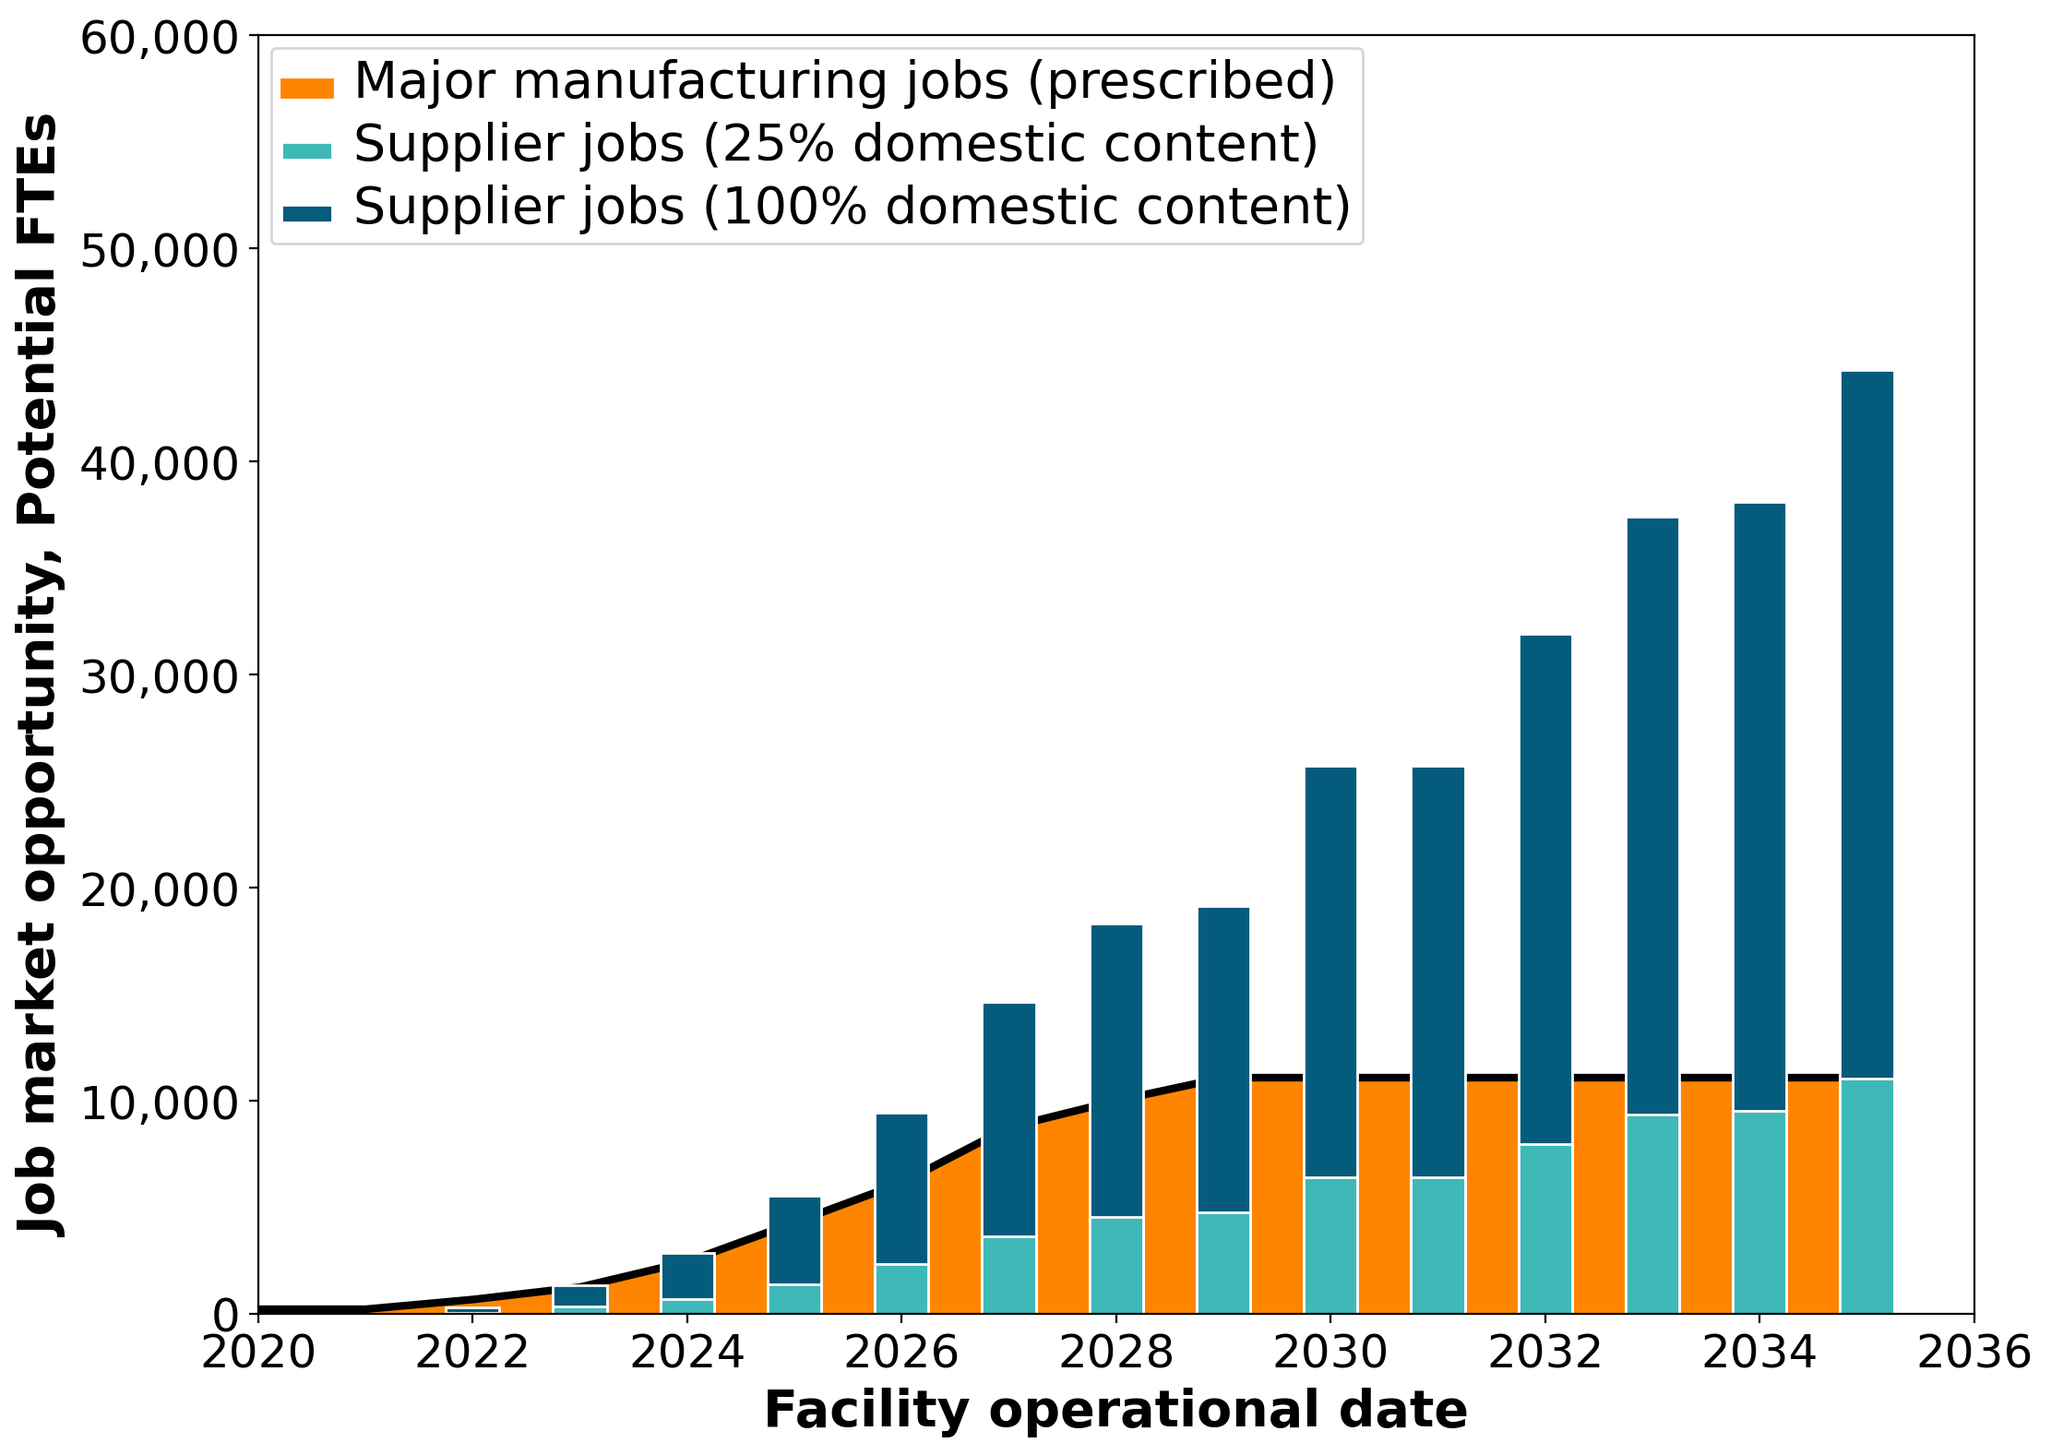
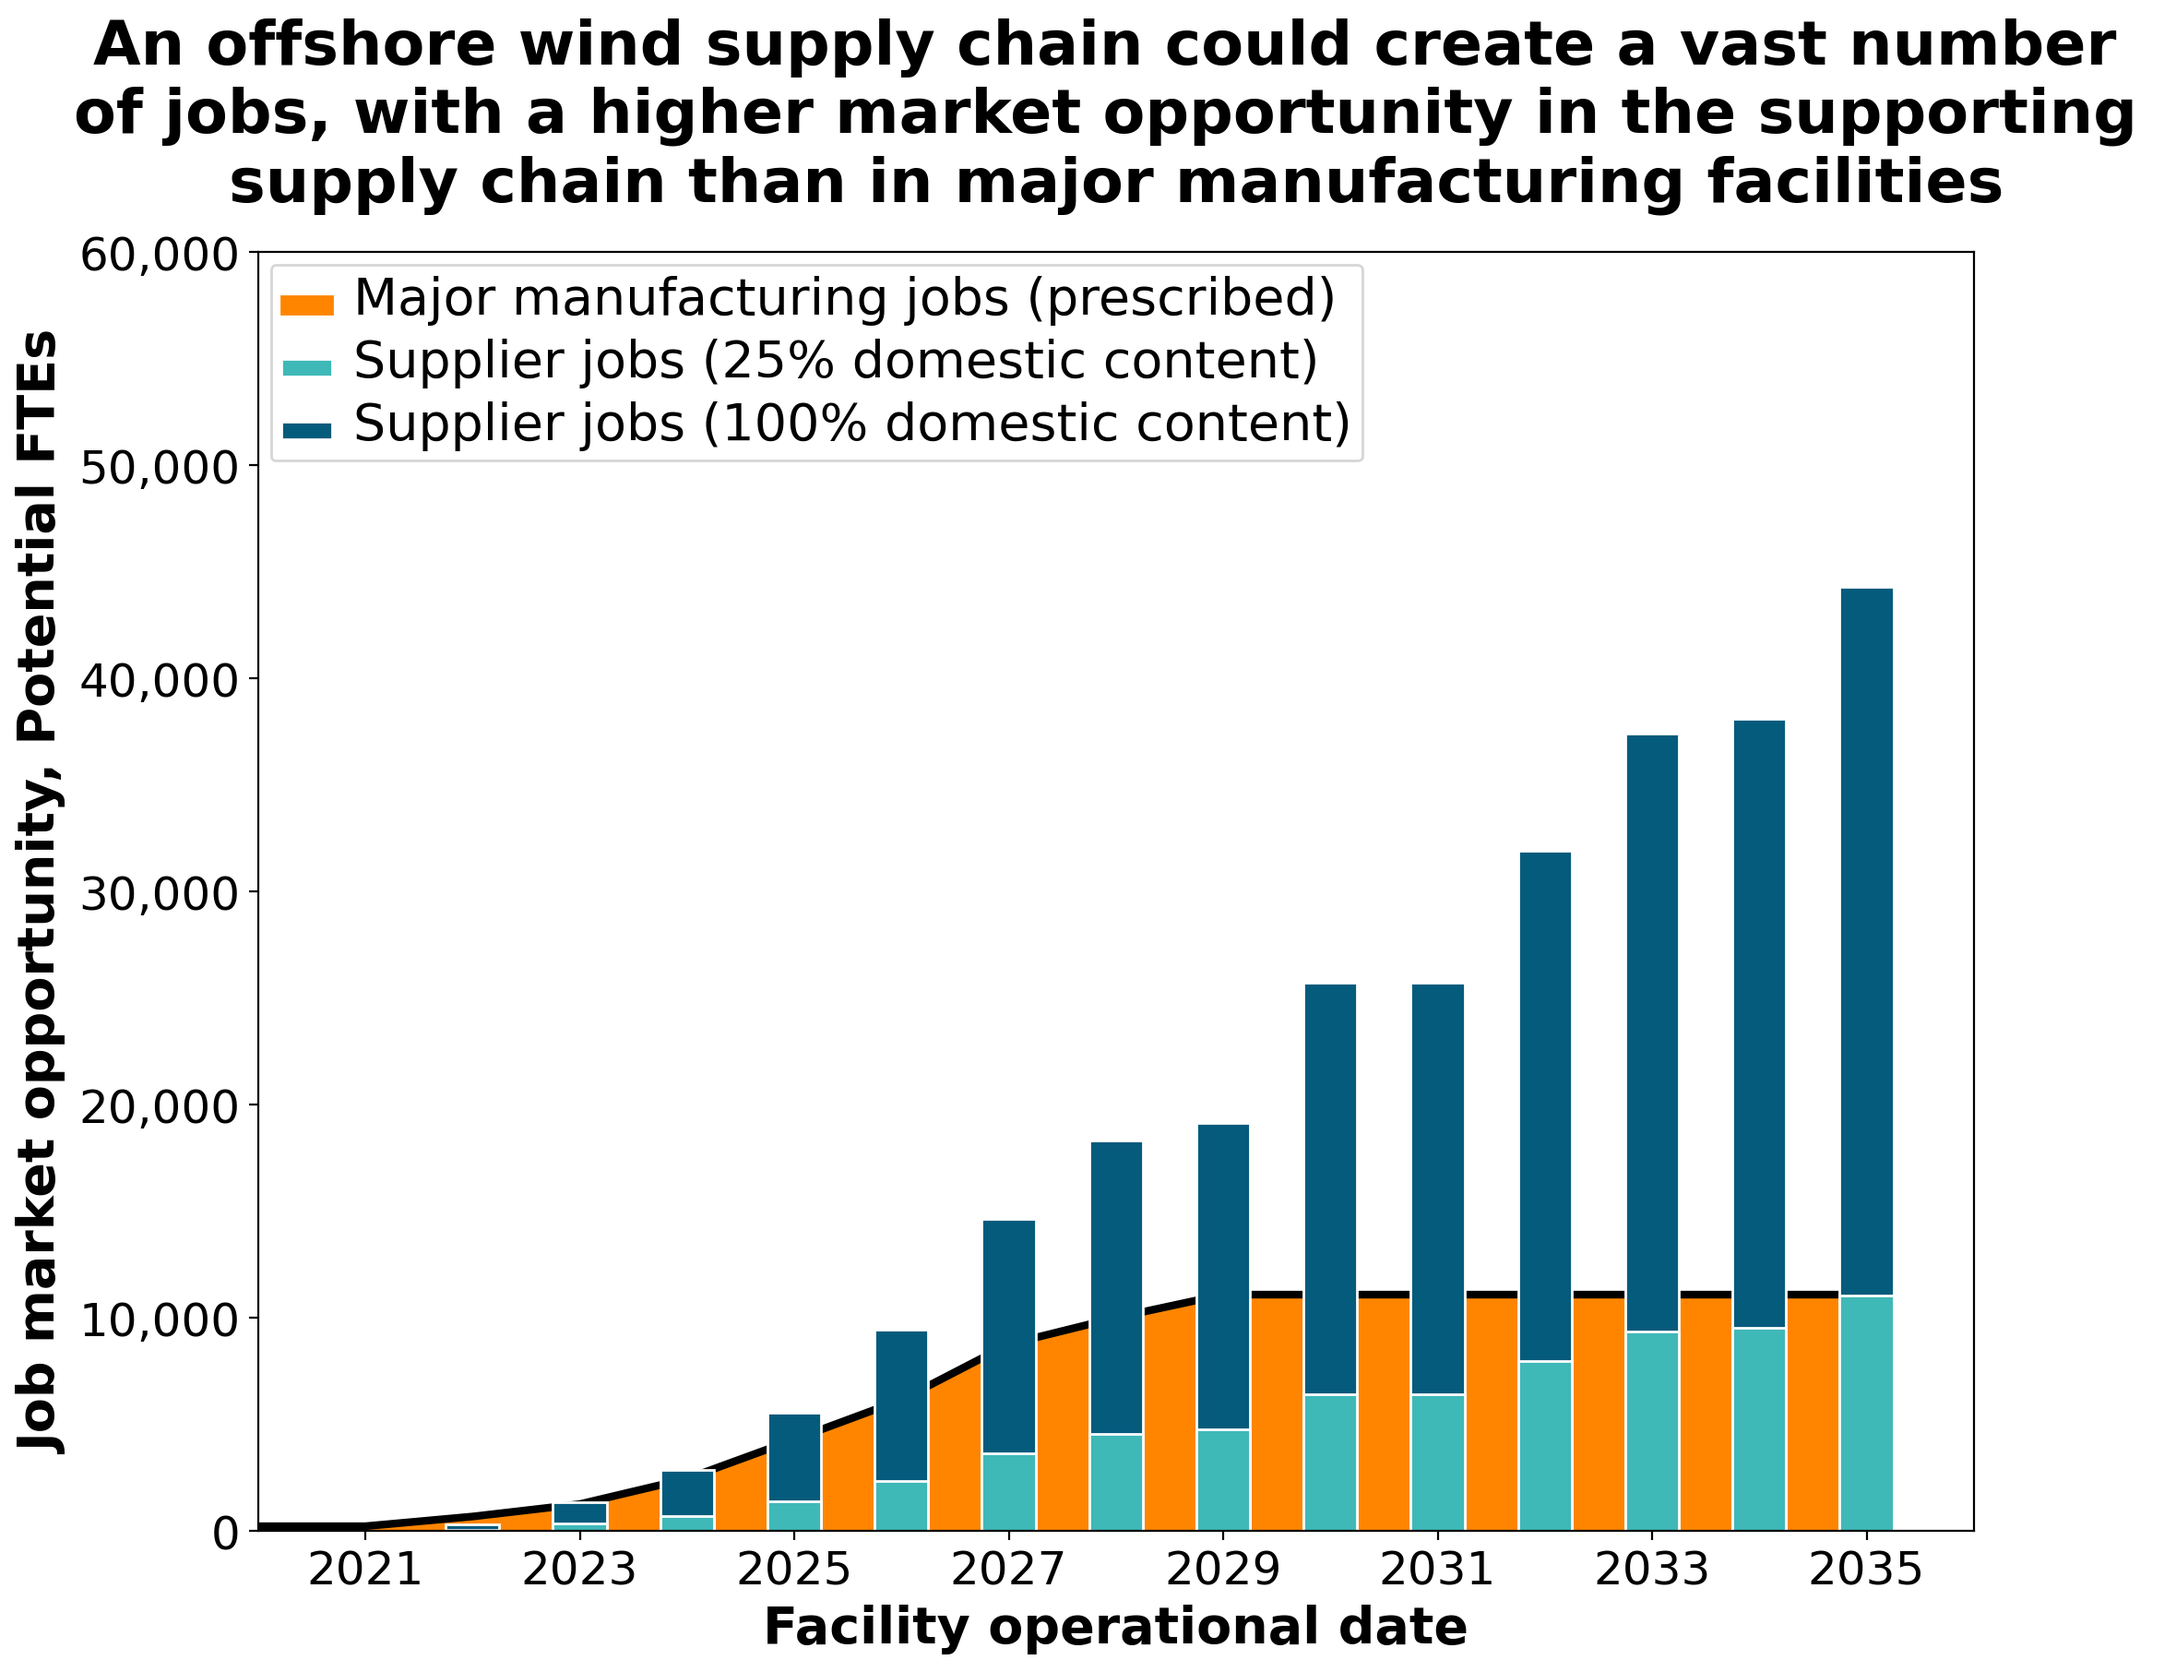
Axis formatting and added title for workforce rampup

Changed region(s): [[0.0, 0.0, 0.9933, 0.87], [0.0931, 0.2486, 0.9933, 0.9943]]

diff --git a/additional_plots.py b/additional_plots.py
@@ -72,6 +72,7 @@ if __name__ == '__main__':
                             'color2': color_list[label[1]],
                             'color3': color_list[label[2]],
                             'ylim': [0, 60000],
+                            'xticks': np.arange(2021,2035+1,2),
                             'ylabel': 'Job market opportunity, Potential FTEs',
                             'xlabel': 'Facility operational date'
                             }
@@ -79,9 +80,12 @@ if __name__ == '__main__':
                 # Different names and directories for accelerated and conservative scenarios
                 if "top" in fig:
                     fname = 'results/Accelerated/workforce_rampup'
+                    title = "An offshore wind supply chain could create a vast number \nof jobs, with a higher market opportunity in the supporting \nsupply chain than in major manufacturing facilities"
                 elif "bottom" in fig:
                     fname = 'results/Conservative/workforce_rampup'
-                area_bar_chart(years, direct, indirect_25, indirect_100, label, kwargs, fname)
+                    title = "An offshore wind energy supply chain could create a vast number of jobs, with a higher market in the supporting supply chain than in major manufacturing facilities"
+
+                area_bar_chart(years, direct, indirect_25, indirect_100, label, kwargs, fname, title)
             elif "Figure 20" in fig:
                 states = _df.index.values
 

diff --git a/plot_routines.py b/plot_routines.py
@@ -530,7 +530,7 @@ def pie_plot(y, c, n, fname=None):
         mysave(fig, fname)
         plt.close()
 
-def area_bar_chart(x, y1, y2, y3, l, kwargs, fname=None):
+def area_bar_chart(x, y1, y2, y3, l, kwargs, fname=None, title=None):
     fig, ax = initFigAxis()
 
     # Area plot
@@ -545,9 +545,13 @@ def area_bar_chart(x, y1, y2, y3, l, kwargs, fname=None):
     ax.set_ylabel(kwargs['ylabel'])
     ax.set_xlim(x[0], x[-1]+1)
     ax.set_ylim(kwargs['ylim'])
+    ax.set_xticks(kwargs['xticks'])
     ax.legend(loc='upper left')
     ax.get_yaxis().set_major_formatter(
         mpl.ticker.FuncFormatter(lambda x, p: format(int(x), ',')))
+
+    if title:
+        ax.set_title(title)
 
     if fname:
         myformat(ax)
